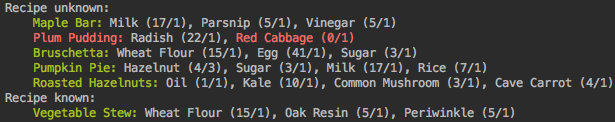
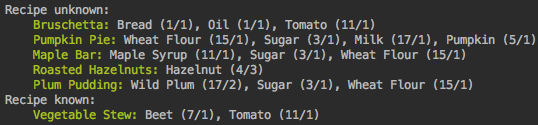
Fixed recipe list.

Changed region(s): [[0.0, 0.0246, 1.0, 0.7377], [0.0, 0.7377, 0.8625, 0.9836]]

diff --git a/cooking.py b/cooking.py
@@ -97,7 +97,7 @@ def main():
 	player = tree.find('player')
 
 	fish = ['Albacore', 'Anchovy', 'Angler', 'Bream', 'Bullhead', 'Bullhead', 'Carp', 'Catfish', 'Cockle', 'Crab', 'Crayfish', 'Crimsonfish', 'Dorado', 'Eel', 'Ghostfish', 'Glacierfish', 'Halibut', 'Herring', 'Ice Pip', 'Largemouth Bass', 'Lava Eel', 'Legend', 'Lingcod', 'Lobster', 'Mussel', 'Mutant Carp', 'Octopus', 'Oyster', 'Perch', 'Periwinkle', 'Pike', 'Pufferfish', 'Rainbow Trout', 'Red Mullet', 'Red Snapper', 'Salmon', 'Sandfish', 'Sardine', 'Scorpion Carp', 'Sea Cucumber', 'Shad', 'Shrimp', 'Smallmouth Bass', 'Snail', 'Squid', 'Stonefish', 'Sturgeon', 'Sunfish', 'Super Cucumber', 'Tiger Trout', 'Tilapia', 'Tuna', 'Walleye', 'Woodskip']
-	recipes = {'Algae Soup' : {'Green Algae':4},'Artichoke Dip' : {'Artichoke':1, 'Milk':1},'Autumn\'s Bounty' : {'Yam':1, 'Pumpkin':1},'Baked Fish' : {'Sunfish':1, 'Bream':1, 'Wheat Flour':1, 'Green Bean':2},'Bean Hotpot' : {'Blackberry':2, 'Sugar':1, 'Wheat Flour':1},'Blackberry Cobbler' : {'Blueberry':1, 'Wheat Flour':1, 'Sugar':1, 'Egg':1, 'Wheat Flour':1},'Blueberry Tart' : {'Tomato':1, 'Bread':1, 'Oil':1, 'Carp':4},'Bread' : {'Cauliflower':1, 'Cheese':1},'Bruschetta' : {'Wheat Flour':1, 'Sugar':1, 'Egg':1},'Carp Surprise' : {'Clam':1, 'Milk':1},'Cheese Cauliflower' : {'Red Cabbage':1, 'Vinegar':1, 'Mayonnaise':1},'Chocolate Cake' : {'Hashbrowns':1, 'Fried Egg':1, 'Milk':1, 'Pancakes':1},'Chowder' : {'Wheat Flour':1, 'Sugar':1, 'Egg':1},'Coleslaw' : {'Crab':1, 'Wheat Flour':1, 'Egg':1, 'Oil':1},'Complete Breakfast' : {'Cranberries':1, 'Apple':1, 'Sugar':1},'Cookie' : {'Cranberries':1, 'Sugar':1},'Crab Cakes' : {'Largemouth Bass':1, 'Wheat Flour':1, 'Oil':1},'Cranberry Candy' : {'Sardine':2, 'Hashbrowns':1},'Cranberry Sauce' : {'Tomato':1, 'Eggplant':1},'Crispy Bass' : {'Garlic':1, 'Snail':1},'Dish O\' The Sea' : {'Parsnip':1, 'Omelet':1},'Eggplant Parmesan' : {'Garlic':1, 'Fiddlehead Fern':1, 'Oil':1},'Escargot' : {'Tomato':1, 'Crayfish':1, 'Mussel':1, 'Periwinkle':1},'Farmer\'s Lunch' : {'Tuna':1, 'Tortilla':1, 'Red Cabbage':1, 'Mayonnaise':1},'Fiddlehead Risotto' : {'Squid':1, 'Wheat Flour':1, 'Oil':1},'Fish Stew' : {'Eel':1, 'Oil':1, 'Egg':1},'Fish Taco' : {'Common Mushroom':1, 'Morel':1, 'Oil':1},'Fried Calamari' : {'Apricot':1, 'Blueberry':1, 'Melon':1},'Fried Eel' : {'Yam':1, 'Sugar':1},'Fried Egg' : {'Potato':1, 'Oil':1},'Fried Mushroom' : {'Milk':1, 'Sugar':1},'Fruit Salad' : {'Lobster':1, 'Milk':1},'Glazed Yams' : {'Blue Jazz':1, 'Sea Cucumber':1, 'Tortilla':1},'Hashbrowns' : {'Fish':1, 'Seaweed':1, 'Rice':1},'Ice Cream' : {'Maple Syrup':1, 'Sugar':1, 'Wheat Flour':1},'Lobster Bisque' : {'Cave Carrot':2, 'Sugar':1, 'Milk':1},'Lucky Lunch' : {'Egg':1, 'Milk':1, 'White Algae':2},'Maki Roll' : {'Wheat Flour':1, 'Egg':1},'Maple Bar' : {'Parsnip':1, 'Milk':1, 'Vinegar':1},'Miner\'s Treat' : {'Hot Pepper':1, 'Cheese':1},'Omelet' : {'Melon':1, 'Wheat Flour':1, 'Sugar':1, 'Egg':1},'Pale Broth' : {'Tomato':1, 'Wheat Flour':1, 'Cheese':1},'Pancakes' : {'Wild Plum':2, 'Wheat Flour':1, 'Sugar':1},'Parsnip Soup' : {'Poppy':1, 'Wheat Flour':1, 'Sugar':1},'Pepper Poppers' : {'Pumpkin':1, 'Wheat Flour':1, 'Milk':1, 'Sugar':1},'Pink Cake' : {'Pumpkin':1, 'Milk':1},'Pizza' : {'Radish':1, 'Oil':1, 'Vinegar':1},'Plum Pudding' : {'Red Cabbage':1, 'Radish':1},'Poppyseed Muffin' : {'Rhubarb':1, 'Wheat Flour':1, 'Sugar':1},'Pumpkin Pie' : {'Milk':1, 'Sugar':1, 'Rice':1, 'Hazelnut':3},'Pumpkin Soup' : {'Cave Carrot':1, 'Winter Root':1},'Radish Salad' : {'Leek':1, 'Dandelion':1, 'Vinegar':1},'Red Plate' : {'Kale':1, 'Salmon':1, 'Amaranth':1, 'Fish':1},'Rhubarb Pie' : {'Tomato':1, 'Wheat Flour':1},'Rice Pudding' : {'Eel':1, 'Hot Pepper':1},'Roasted Hazelnuts' : {'Kale':1, 'Common Mushroom':1, 'Cave Carrot':1, 'Oil':1},'Roots Platter' : {'Wheat Flour':1, 'Periwinkle':1, 'Oak Resin':1},'Salad' : {'Cranberries':1, 'Hazelnut':1, 'Bread':1},'Salmon Dinner' : {'Bok Choy':1, 'Cranberries':1, 'Artichoke':1},'Sashimi' : {'Cave Carrot':1, 'Eggplant':1, 'Bread':1},'Spaghetti' : {'Coconut':1, 'Common Mushroom':1, 'Shrimp':1, 'Corn':1},'Spicy Eel' : {'Rainbow Trout':1, 'Green Algae':1},'Stir Fry' : {'Tomato':1, 'Beet':1},'Strange Bun' : {'Wheat Flour':1, 'Periwinkle':1, 'Oak Resin':1},'Stuffing' : {'Cranberries':1, 'Hazelnut':1, 'Bread':1},'Super Meal' : {'Bok Choy':1, 'Cranberries':1, 'Artichoke':1},'Survival Burger' : {'Cave Carrot':1, 'Eggplant':1, 'Bread':1},'Tom Kha Soup' : {'Coconut':1, 'Common Mushroom':1, 'Shrimp':1, 'Corn':1},'Tortilla' : {'Rainbow Trout':1, 'Green Algae':1},'Trout Soup' : {'Tomato':1, 'Beet':1},'Vegetable Stew' : {'Wheat Flour':1, 'Periwinkle':1, 'Oak Resin':1}}
+	recipes = {'Algae Soup' :  {'Green Algae': 4},'Artichoke Dip' :  {'Artichoke ': 1, 'Milk':1},'Autumn\'s Bounty' :  {'Yam': 1, 'Pumpkin' :1},'Baked Fish' :  {'Sunfish': 1, 'Bream': 1, 'Wheat Flour': 1},'Bean Hotpot' :  {'Green Bean': 1},'Blackberry Cobbler' :  {'Blackberry': 1, 'Sugar': 1, 'Wheat Flour': 1},'Blueberry Tart' :  {'Blueberry': 1, 'Sugar': 1, 'Wheat Flour': 1},'Bread' :  {'Wheat Flour': 1},'Bruschetta' :  {'Tomato': 1, 'Bread': 1, 'Oil': 1},'Cheese Cauliflower' :  {'Cauliflower': 1, 'Cheese': 1},'Carp Surprise' :  {'Carp': 4},'Chocolate Cake' :  {'Wheat Flour': 1, 'Sugar': 1, 'Egg': 1},'Chowder' :  {'Clam': 1, 'Milk': 1},'Coleslaw' :  {'Red Cabbage': 1, 'Vinegar': 1, 'Mayonnaise': 1},'Complete Breakfast' :  {'Hashbrowns': 1, 'Fried Egg': 1, 'Milk': 1, 'Pancakes': 1},'Cookie' :  {'Wheat Flour': 1, 'Sugar': 1, 'Egg': 1},'Crab Cakes' :  {'Crab': 1, 'Wheat Flour': 1, 'Egg': 1, 'Oil': 1},'Cranberry Candy' :  {'Cranberries': 1, 'Apple': 1, 'Sugar': 1},'Cranberry Sauce' :  {'Cranberries': 1, 'Sugar': 1},'Crispy Bass' :  {'Largemouth Bass': 1, 'Wheat Flour': 1, 'Oil': 1},'Dish O\' The Sea' :  {'Sardine': 2, 'Hashbrowns': 1},'Eggplant Parmesan' :  {'Tomato': 1, 'Eggplant': 1},'Escargot' :  {'Garlic': 1, 'Snail': 1},'Farmer\'s Lunch' :  {'Parsnip': 1, 'Omelet': 1},'Fiddlehead Risotto' :  {'Garlic': 1, 'Fiddlehead Fern': 1, 'Oil': 1},'Fish Stew' :  {'Tomato': 1, 'Crayfish': 1, 'Mussel': 1, 'Periwinkle': 1},'Fish Taco' :  {'Tuna': 1, 'Tortilla': 1, 'Red Cabbage': 1, 'Mayonnaise': 1},'Fried Calamari' :  {'Squid': 1, 'Wheat Flour': 1, 'Oil': 1},'Fried Eel' :  {'Eel': 1, 'Oil': 1},'Fried Egg' :  {'Egg': 1},'Fried Mushroom' :  {'Common Mushroom': 1, 'Morel': 1, 'Oil': 1},'Fruit Salad' :  {'Apricot': 1, 'Blueberry': 1, 'Melon': 1},'Glazed Yams' :  {'Yam': 1, 'Sugar': 1},'Hashbrowns' :  {'Potato': 1, 'Oil': 1},'Ice Cream' :  {'Milk': 1, 'Sugar': 1},'Lobster Bisque' :  {'Lobster': 1, 'Milk': 1},'Lucky Lunch' :  {'Blue Jazz': 1, 'Sea Cucumber': 1, 'Tortilla': 1},'Maki Roll' :  {'Fish': 1, 'Seaweed': 1, 'Rice': 1},'Maple Bar' :  {'Maple Syrup': 1, 'Sugar': 1, 'Wheat Flour': 1},'Miner\'s Treat' :  {'Cave Carrot': 1, 'Sugar': 1, 'Milk': 1},'Omelet' :  {'Egg': 1, 'Milk': 1},'Pale Broth' :  {'White Algae': 2},'Pancakes' :  {'Wheat Flour': 1, 'Egg': 1},'Parsnip Soup' :  {'Parsnip': 1, 'Milk': 1, 'Vinegar': 1},'Pepper Poppers' :  {'Hot Pepper': 1, 'Cheese': 1},'Pink Cake' :  {'Melon': 1, 'Wheat Flour': 1, 'Sugar': 1, 'Egg': 1},'Pizza' :  {'Tomato': 1, 'Wheat Flour': 1, 'Cheese': 1},'Plum Pudding' :  {'Wild Plum': 2, 'Wheat Flour': 1, 'Sugar': 1},'Poppyseed Muffin' :  {'Poppy': 1, 'Wheat Flour': 1, 'Sugar': 1},'Pumpkin Pie' :  {'Pumpkin': 1, 'Wheat Flour': 1, 'Milk': 1, 'Sugar': 1},'Pumpkin Soup' :  {'Pumpkin': 1, 'Milk': 1},'Radish Salad' :  {'Radish': 1, 'Oil': 1, 'Vinegar': 1},'Red Plate' :  {'Red Cabbage': 1, 'Radish': 1},'Rhubarb Pie' :  {'Rhubarb': 1, 'Wheat Flour': 1, 'Sugar': 1},'Rice Pudding' :  {'Milk': 1, 'Sugar': 1, 'Rice': 1},'Roasted Hazelnuts' :  {'Hazelnut': 3},'Roots Platter' :  {'Cave Carrot': 1, 'Winter Root': 1},'Salad' :  {'Leek': 1, 'Dandelion': 1, 'Vinegar': 1},'Salmon Dinner' :  {'Kale': 1, 'Salmon': 1, 'Amaranth': 1},'Sashimi' :  {'Fish': 1},'Spaghetti' :  {'Tomato': 1, 'Wheat Flour': 1},'Spicy Eel' :  {'Eel': 1, 'Hot Pepper': 1},'Stir Fry' :  {'Kale': 1, 'Common Mushroom': 1, 'Cave Carrot': 1, 'Oil': 1},'Strange Bun' :  {'Wheat Flour': 1, 'Periwinkle': 1, 'Oak Resin': 1},'Stuffing' :  {'Cranberries': 1, 'Hazelnut': 1, 'Bread': 1},'Super Meal' :  {'Bok Choy': 1, 'Cranberries': 1, 'Artichoke': 1},'Survival Burger' :  {'Cave Carrot': 1, 'Eggplant': 1, 'Bread': 1},'Tom Kha Soup' :  {'Coconut': 1, 'Common Mushroom': 1, 'Shrimp': 1},'Tortilla' :  {'Corn': 1},'Trout Soup' :  {'Rainbow Trout': 1, 'Green Algae': 1},'Vegetable Stew' : {'Tomato' : 1, 'Beet': 1}}
 	recipe_ids = {'226': 'Spicy Eel', '218': 'Tom Kha Soup', '456': 'Algae Soup', '605': 'Artichoke Dip', '235': 'Autumn\'s Bounty', '198': 'Baked Fish', '207': 'Bean Hotpot', '611': 'Blackberry Cobbler', '234': 'Blueberry Tart', '216': 'Bread', '618': 'Bruschetta', '209': 'Carp Surprise', '197': 'Cheese Cauliflower', '220': 'Chocolate Cake', '727': 'Chowder', '648': 'Coleslaw', '201': 'Complete Breakfast', '223': 'Cookie', '732': 'Crab Cakes', '612': 'Cranberry Candy', '238': 'Cranberry Sauce', '214': 'Crispy Bass', '242': 'Dish O\' The Sea', '231': 'Eggplant Parmesan', '729': 'Escargot', '240': 'Farmer\'s Lunch', '649': 'Fiddlehead Risotto', '728': 'Fish Stew', '213': 'Fish Taco', '202': 'Fried Calamari', '225': 'Fried Eel', '194': 'Fried Egg', '205': 'Fried Mushroom', '610': 'Fruit Salad', '208': 'Glazed Yams', '210': 'Hashbrowns', '233': 'Ice Cream', '730': 'Lobster Bisque', '204': 'Lucky Lunch', '228': 'Maki Roll', '731': 'Maple Bar', '243': 'Miner\'s Treat', '195': 'Omelet', '457': 'Pale Broth', '211': 'Pancakes', '199': 'Parsnip Soup', '215': 'Pepper Poppers', '221': 'Pink Cake', '206': 'Pizza', '604': 'Plum Pudding', '651': 'Poppyseed Muffin', '608': 'Pumpkin Pie', '236': 'Pumpkin Soup', '609': 'Radish Salad', '230': 'Red Plate', '222': 'Rhubarb Pie', '232': 'Rice Pudding', '607': 'Roasted Hazelnuts', '244': 'Roots Platter', '196': 'Salad', '212': 'Salmon Dinner', '227': 'Sashimi', '224': 'Spaghetti', '606': 'Stir Fry', '203': 'Strange Bun', '239': 'Stuffing', '237': 'Super Meal', '241': 'Survival Burger', '480': 'Tomato Seeds', '229': 'Tortilla', '219': 'Trout Soup', '200': 'Vegetable Medley'}
 	cooked = set()
 	known_recipes = set()
